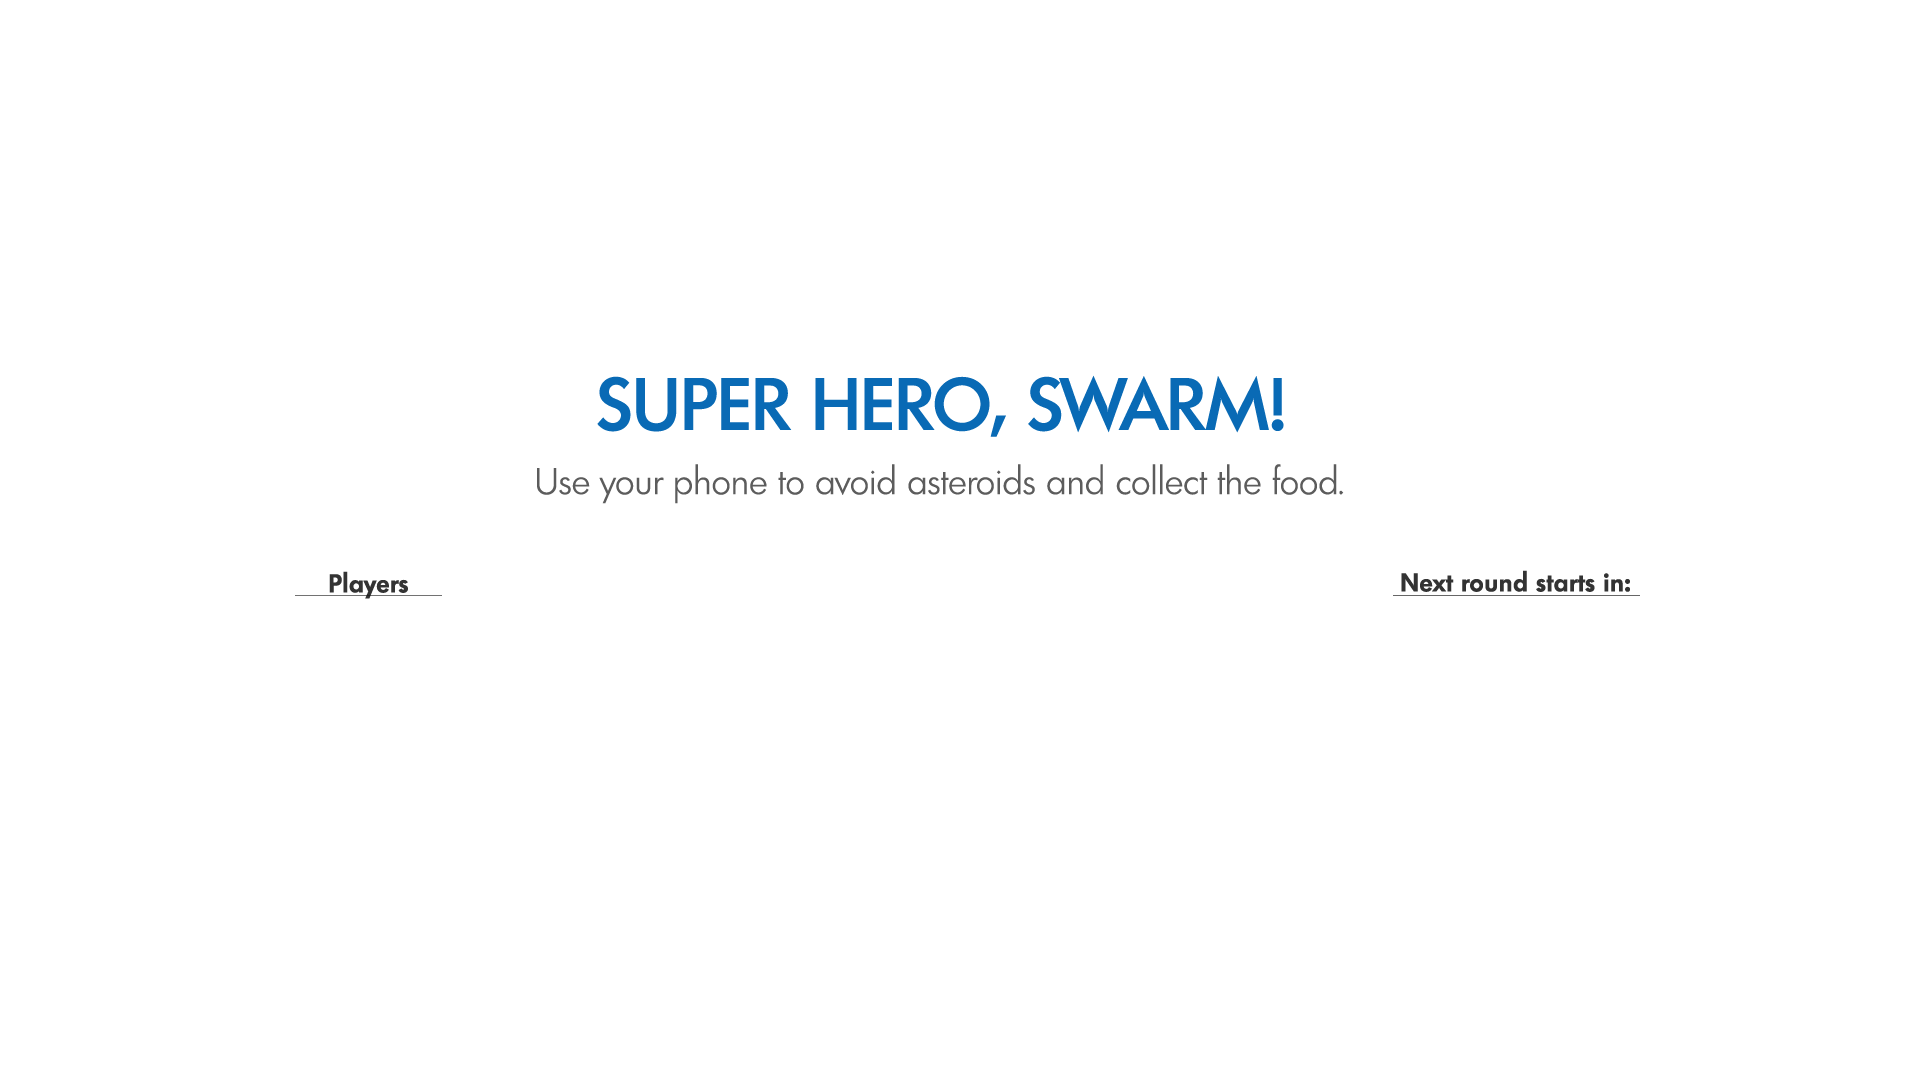
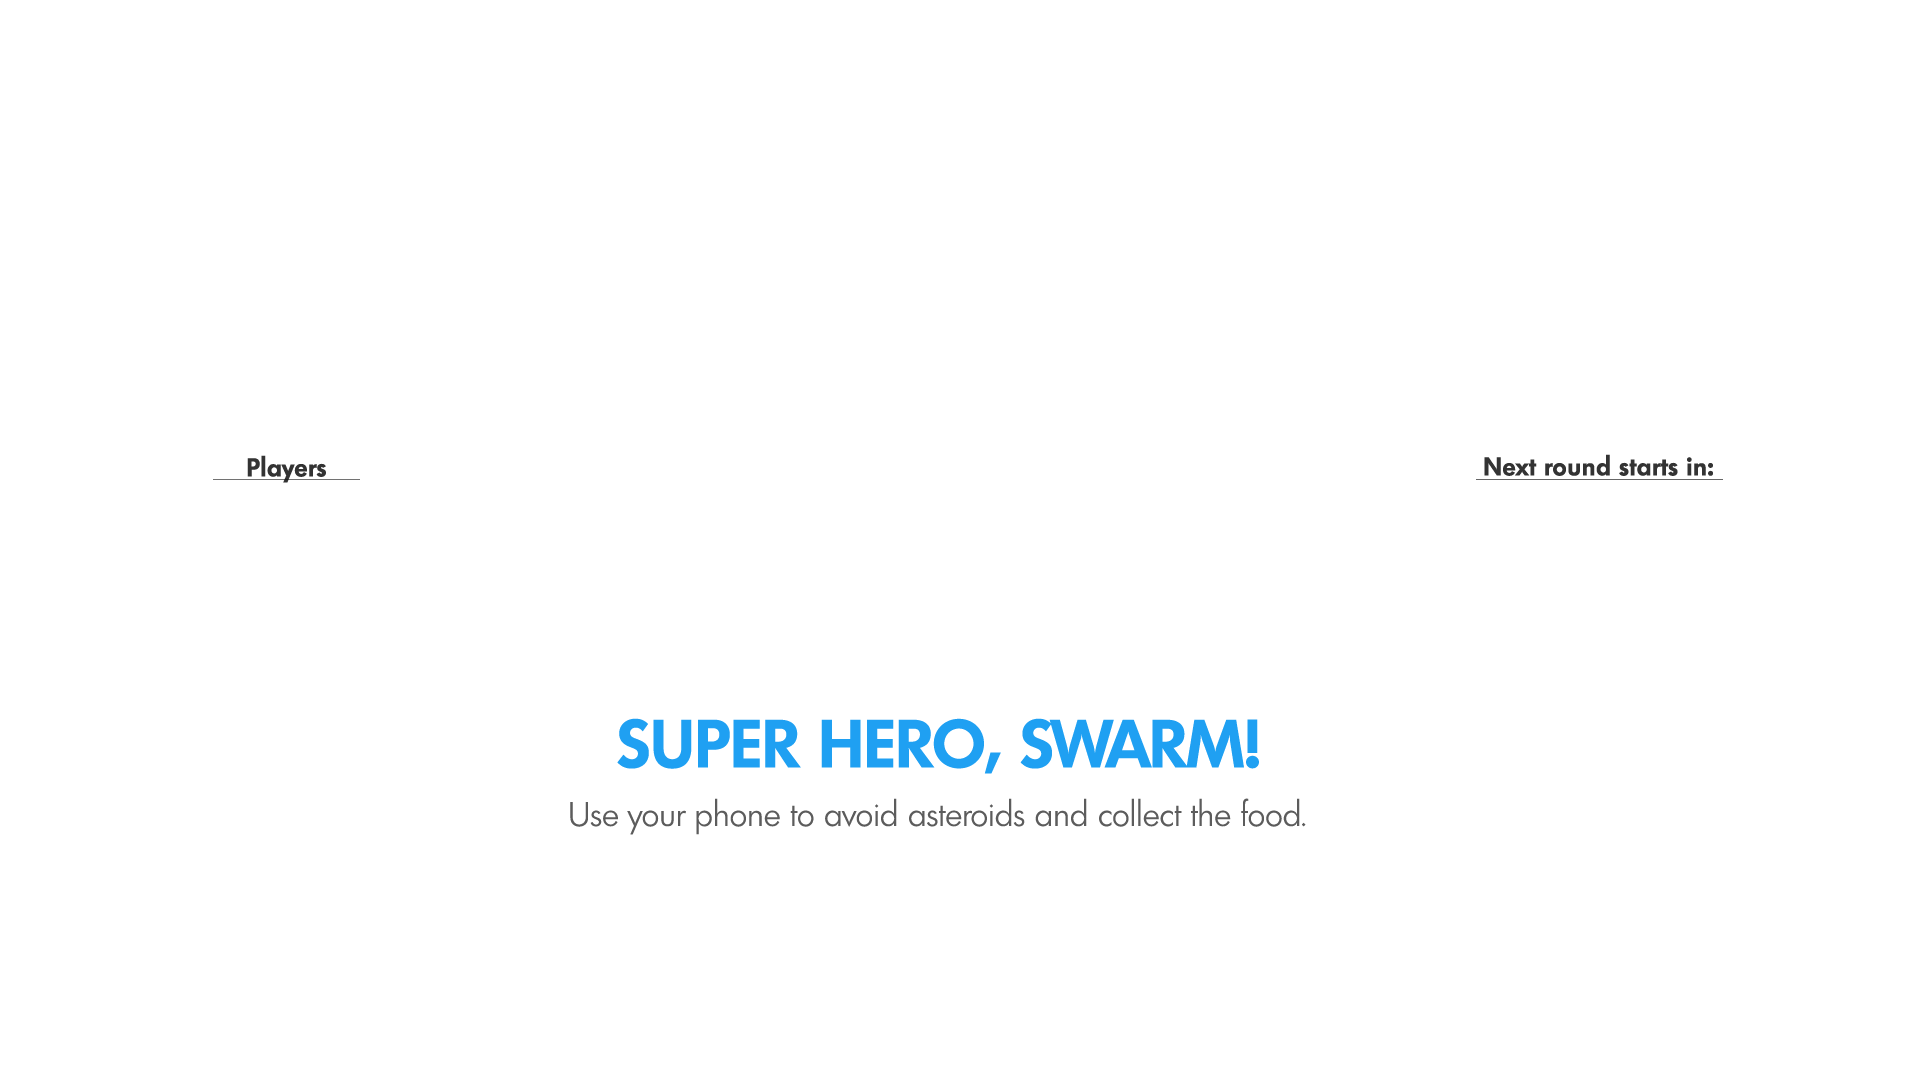
Round layout

diff --git a/BigGame/public/css/screen.css b/BigGame/public/css/screen.css
@@ -37,7 +37,7 @@ body {
     position: fixed;
     text-align: center;
     left: 270px;
-    bottom: 90px;
+    bottom: 40px;
     font-size: 2.5em;
     color: #444;
 }
@@ -54,8 +54,8 @@ body {
 #new-round #round-countdown {
     position: absolute;
     text-align: center;
-    right: 350px;
-    top: 610px;
+    right: 220px;
+    top: 410px;
     font-size: 8em;
     color: #444;
 }
@@ -63,8 +63,8 @@ body {
 #new-round #player-list {
     position: absolute;
     text-align: left;
-    left: 300px;
-    top: 615px;
+    left: 150px;
+    top: 415px;
     font-size: 25px;
     color: #444;
 }
